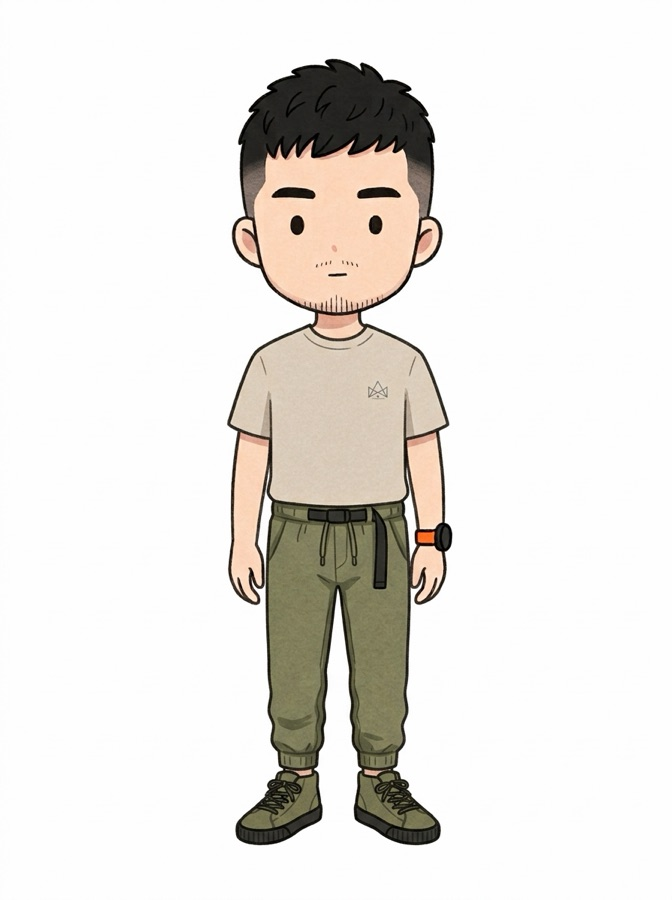
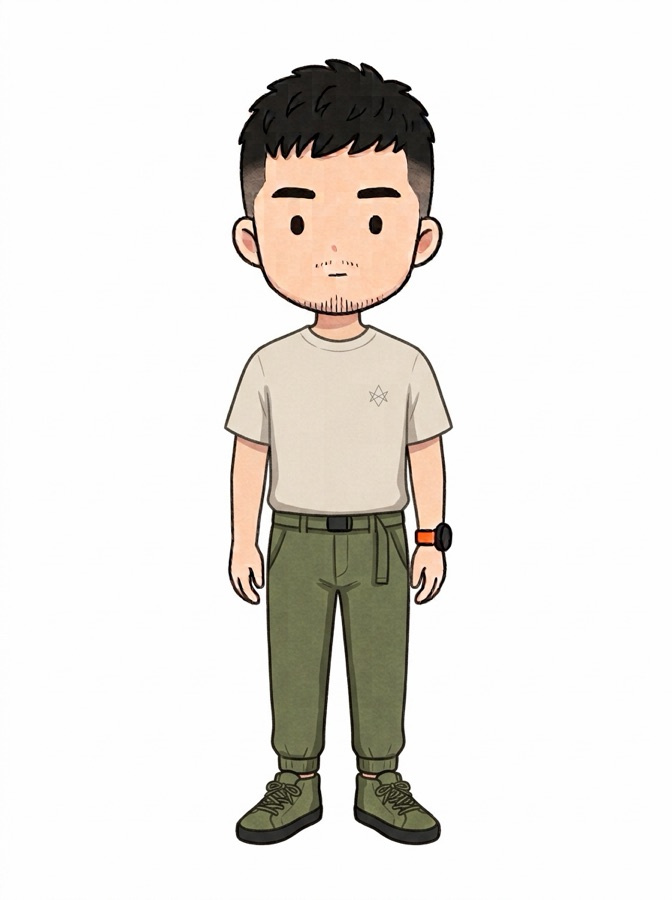
軍綠褲重畫為自帶皮帶（單品＋C 套）；拖鞋 Crocs、夾腳拖母子鱷魚

Changed region(s): [[0.3125, 0.3733, 0.6875, 0.9333], [0.4375, 0.3422, 0.5625, 0.4044], [0.5938, 0.3733, 0.6562, 0.4356]]

diff --git a/index.html b/index.html
@@ -1,5 +1,5 @@
 <!doctype html>
-<html lang="zh-Hant" data-v="12">
+<html lang="zh-Hant" data-v="13">
 <head>
 <meta charset="utf-8">
 <meta name="viewport" content="width=device-width, initial-scale=1, viewport-fit=cover">
